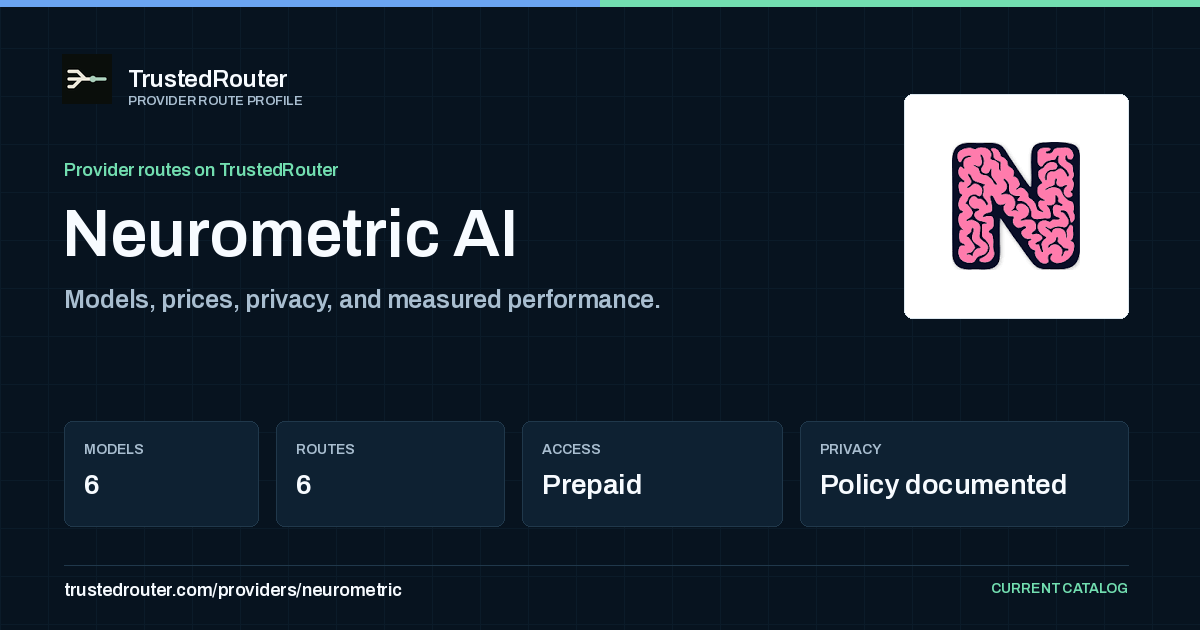
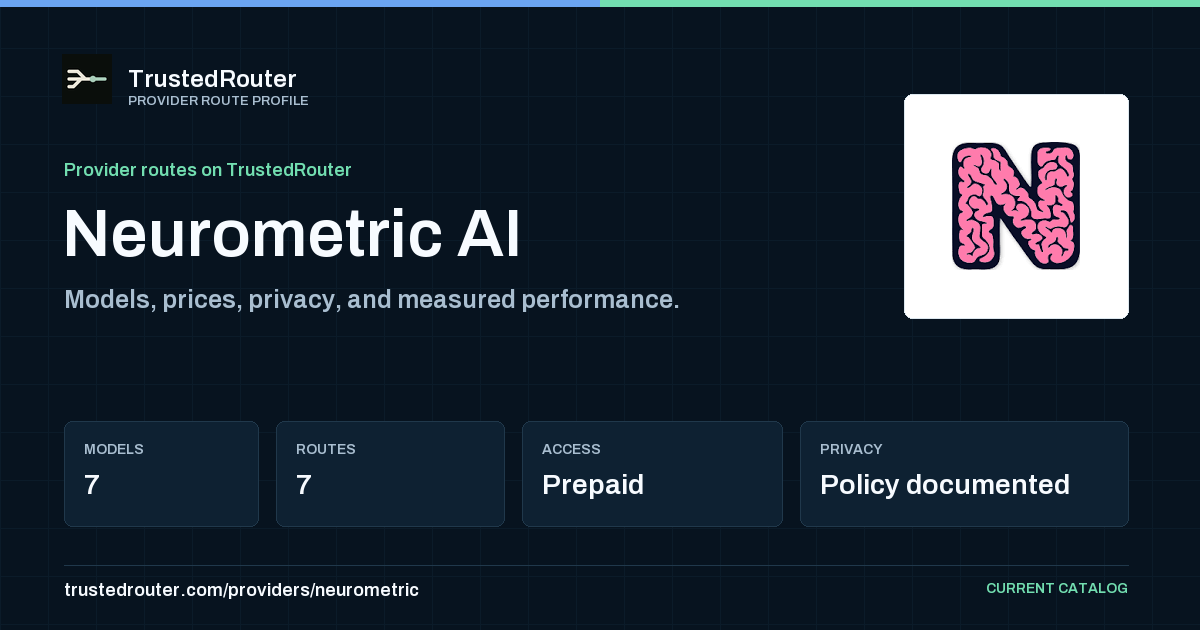
Add Neurometric tool-choice model

diff --git a/tests/test_neurometric_provider.py b/tests/test_neurometric_provider.py
@@ -149,6 +149,7 @@ def test_neurometric_fetch_discovers_new_models_and_runs_canary(
 ) -> None:
     rows = [
         _model_row(),
+        _model_row("neurometric/tool-choice"),
         _model_row("qwen/qwen3-vl-8b-instruct"),
     ]
 
@@ -180,9 +181,13 @@ def test_neurometric_fetch_discovers_new_models_and_runs_canary(
 
     assert set(result.prices) == {
         "ibm-granite/granite-4.1-8b",
+        "neurometric/tool-choice",
         "qwen/qwen3-vl-8b-instruct",
     }
     assert set(neurometric._DISCOVERED_MANIFEST_ROWS) == set(result.prices)
+    assert neurometric._DISCOVERED_MANIFEST_ROWS["neurometric/tool-choice"][
+        "supported_parameters"
+    ] == ["tool_choice"]
     assert neurometric._LIVE_CANARY_OK is True
 
 
@@ -270,9 +275,16 @@ def test_neurometric_catalog_routes_are_prepaid_only_and_no_store() -> None:
         for endpoint in endpoints
     } >= {
         "ibm-granite/granite-4.1-8b",
+        "neurometric/tool-choice",
         "qwen/qwen3-vl-8b-instruct",
         "qwen/qwen3-vl-8b-thinking",
     }
+    tool_choice = next(
+        endpoint
+        for endpoint in endpoints
+        if endpoint.upstream_id == "neurometric/tool-choice"
+    )
+    assert "tool_choice" in tool_choice.supported_parameters
 
 
 def test_neurometric_public_api_exposes_provider_and_exact_endpoint(client: Any) -> None:
@@ -298,6 +310,16 @@ def test_neurometric_public_api_exposes_provider_and_exact_endpoint(client: Any)
     assert neurometric["upstream_id"] == "ibm-granite/granite-4.1-8b"
     assert neurometric["pricing"]["prompt"] == "0.00000005275"
     assert neurometric["pricing"]["completion"] == "0.0000001055"
+
+    response = client.get("/v1/models/neurometric/tool-choice/endpoints")
+    assert response.status_code == 200
+    endpoints = response.json()["data"]
+    tool_choice = next(
+        endpoint for endpoint in endpoints if endpoint["provider_name"] == "Neurometric AI"
+    )
+    assert tool_choice["upstream_id"] == "neurometric/tool-choice"
+    assert tool_choice["pricing"]["prompt"] == "0.00000001055"
+    assert tool_choice["pricing"]["completion"] == "0.0000001055"
 
 
 def test_neurometric_hourly_refresh_and_secret_wiring_are_complete() -> None:

diff --git a/scripts/pricing/providers/neurometric.py b/scripts/pricing/providers/neurometric.py
@@ -36,6 +36,7 @@ MANIFEST_PATH = (
     / "neurometric.json"
 )
 EXPECTED_MODELS = ["ibm-granite/granite-4.1-8b"]
+TOOL_CHOICE_MODELS = frozenset({"neurometric/tool-choice"})
 UPSTREAM_ID_MAP: dict[str, str] = {}
 _DISCOVERED_MANIFEST_ROWS: dict[str, dict[str, Any]] = {}
 _LIVE_CANARY_OK = False
@@ -68,6 +69,8 @@ def fetch() -> ProviderPricingResult:
         payload,
         upstream_id_map=UPSTREAM_ID_MAP,
     )
+    for model_id in TOOL_CHOICE_MODELS & discovered.keys():
+        discovered[model_id]["supported_parameters"] = ["tool_choice"]
     _DISCOVERED_MANIFEST_ROWS = discovered
     canary_model = UPSTREAM_ID_MAP.get(EXPECTED_MODELS[0], EXPECTED_MODELS[0])
     _LIVE_CANARY_OK = probe_openai_chat(
